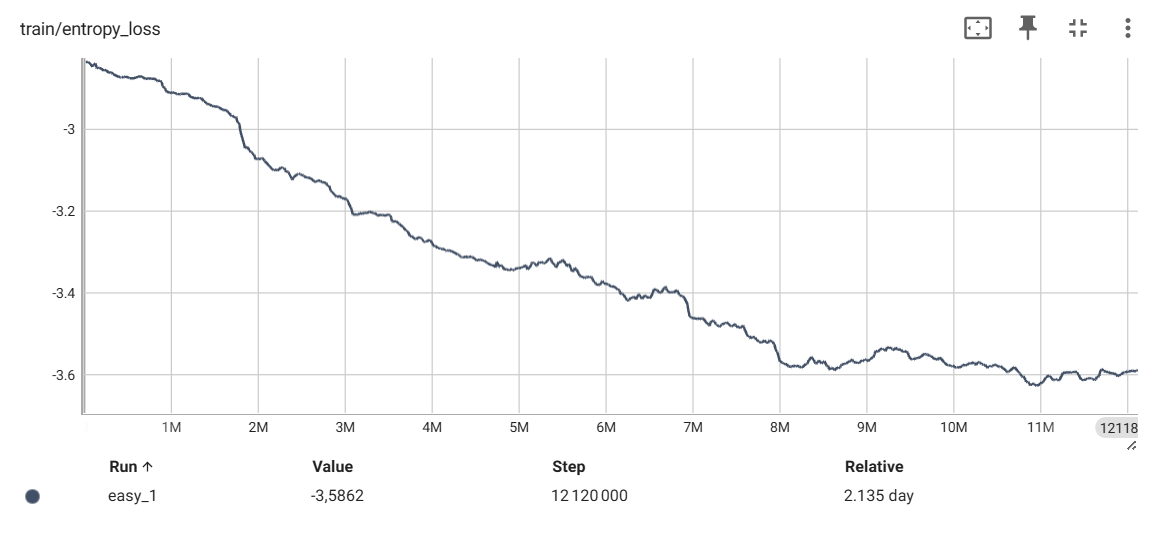
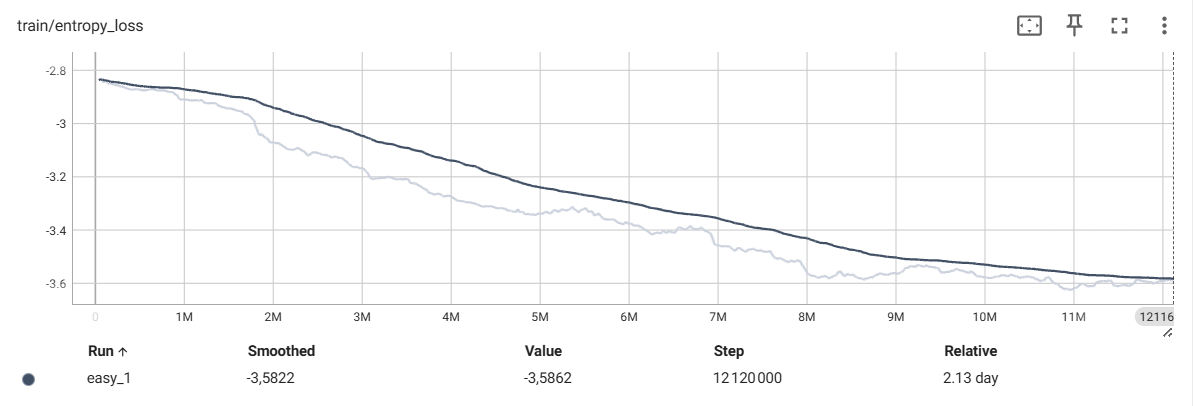
feat: Documenting medium level training

diff --git a/train_medium.py b/train_medium.py
@@ -130,7 +130,7 @@ if __name__ == "__main__":
     )
 
     model.learn(
-        total_timesteps=200_000_000,
+        total_timesteps=25_000_000,
         reset_num_timesteps=False,
         tb_log_name="medium",
         callback=CallbackList(callbacks)

diff --git a/train_easy.py b/train_easy.py
@@ -168,7 +168,7 @@ if __name__ == "__main__":
     )
 
     model.learn(
-        total_timesteps=20_000_000,
+        total_timesteps=12_000_000,
         tb_log_name="easy",
         callback=CallbackList(callbacks)
     )

diff --git a/README.md b/README.md
@@ -196,7 +196,7 @@ Even with all of this, v2's final model showed a real limitation on hard difficu
 - **Pinned `numpy` to `2.4.1` instead of `2.4.0`**: `2.4.0` was yanked from PyPI shortly after release over a backward-compatibility bug (a typo in `SeedlessSequence` breaking wheels built against `numpy < 2.4.0` via the `random` Cython API), which pip surfaces as an install-time warning. `2.4.1` is the immediate patch release that fixes exactly that bug and nothing else.
 - **Retuned `n_steps`/`batch_size`/`n_epochs` per curriculum stage** to address an LSTM hidden-state staleness issue found by inspecting `sb3-contrib`'s source (see "Final analysis" below for the full mechanism): `batch_size` raised from 200 to 2,000 — roughly 2.5x the 800-step maximum episode length — so a whole episode fits inside a single minibatch far more often instead of getting sliced mid-sequence, and `n_epochs` brought down (10/15/20 → 8/8/10) to further limit how many gradient steps reuse a captured, increasingly-outdated hidden state before the next rollout refreshes it.
 - **Added an entropy bonus and tightened the trust region**: `ent_coef` raised from its 0.0 default to `0.01`, and `clip_range` lowered from 0.2 to `0.1`, after a longer easy training run showed entropy collapsing continuously from step 0 (nothing was opposing it) alongside a late-training blow-up in `policy_gradient_loss` and `value_loss` — a well-documented general PPO instability mode, independent of the LSTM-specific staleness issue above.
-- **Switched `learning_rate` from a flat per-stage value to a `LinearSchedule`** that decays over each stage's own training budget instead of staying constant for the full 20M/200M/400M steps of a stage — chosen over an unconditionally lower flat rate since the first several million steps of training were working fine at the original rate.
+- **Switched `learning_rate` from a flat per-stage value to a `LinearSchedule`** that decays over each stage's own training budget instead of staying constant for the full training steps of a stage — chosen over an unconditionally lower flat rate since the first several million steps of training were working fine at the original rate.
 - **Increased checkpoint retention**: `KeepLastTwoCheckpoints` renamed to `KeepLastNCheckpoints` with a configurable `keep_last_n` (now 10, up from a hardcoded 2), giving much more room to go back and recover a pre-regression checkpoint if a run degrades late, instead of being stuck with only the most recent two.
 
 ## Training Hyperparameters
@@ -212,7 +212,7 @@ The table below reflects the `RecurrentPPO` configuration set in `train_easy.py`
 | `learning_rate` | `LinearSchedule(3e-4 → 5e-5)` | `LinearSchedule(5e-5 → 1e-5)` | `LinearSchedule(1e-5 → 2e-6)` |
 | `ent_coef` | 0.01 | 0.01 (inherited) | 0.01 (inherited) |
 | `clip_range` | 0.1 | 0.1 (inherited) | 0.1 (inherited) |
-| `total_timesteps` | 20,000,000 | 200,000,000 | 400,000,000 |
+| `total_timesteps` | 12,000,000 | 25,000,000 | 400,000,000 |
 | `device` | `cpu` | `cpu` | `cpu` |
 | `lstm_hidden_size` | 256 (default) | 256 (inherited) | 256 (inherited) |
 | `n_lstm_layers` | 1 (default) | 1 (inherited) | 1 (inherited) |
@@ -245,7 +245,7 @@ What we can also notice that with the presence of the entropy bonus, the entropy
   <tr>
     <td align="center">
       <img src="public/easy/pool_increase.png" width="800" alt="pool increase"><br>
-      <u><em>The easy seeds' pool increase during training (in %)</em></u>
+      <u><em>The easy seeds pool's size evolution during training (in %)</em></u>
     </td>
   </tr>
   <tr><td></td></tr>
@@ -381,13 +381,7 @@ I also tested on medium and hard level seeds to make sure the presence of memory
 
 ### Medium mode training
 
-Coming soon !
-<!-- I trained the easy model for another **200,000,000 timesteps** (~5 days) but this time on medium level seeds. Medium worlds require the agent to navigate around 1 to 2 significant obstacles — it must learn when to turn and how to recover its heading after a detour.
-
-<p align="center">
-  <img src="public/medium/reward_mean.png" width="800" alt="the reward mean during learning"><br>
-  <u><em>Evolution of reward during learning episodes</em></u>
-</p>
+Next, I trained the model on medium level seeds, starting from the easy level model as a baseline. Medium worlds require the agent to navigate around 1 to 2 significant obstacles — it must learn when to turn and how to recover its heading after a detour. I previously planned to train it for another **200,000,000 timesteps**, but after **19,000,000 timesteps** (~3.8 days) the agent had already achieved a hight success rate and had seen all the seeds in the pool. So I stopped the training. Here are the training metrics.
 
 <table align="center">
   <tr>
@@ -396,21 +390,36 @@ Coming soon !
       <u><em>Evolution of success rate during learning episodes</em></u>
     </td>
   </tr>
+  <tr><td></td></tr>
+  <tr>
+    <td align="center">
+      <img src="public/medium/pool_increase_easy.png" width="800" alt="pool increase"><br>
+      <u><em>The easy seeds pool's size evolution during training (in %)</em></u>
+    </td>
+    <td align="center">
+      <img src="public/medium/pool_increase_medium.png" width="800" alt="pool increase"><br>
+      <u><em>The medium seeds pool's size evolution during training (in %)</em></u>
+    </td>
+  </tr>
+  <tr><td></td></tr>
   <tr>
     <td align="center">
       <img src="public/medium/explained_variance.png" width="800" alt="explained variance during learning"><br>
-      <u><em>Evolution of explained variance during learning — stays consistently above 0.92, indicating the value function learned well</em></u>
+      <u><em>Evolution of explained variance during learning</em></u>
     </td>
   </tr>
+  <tr><td></td></tr>
   <tr>
     <td align="center">
       <img src="public/medium/entropy_loss.png" width="800" alt="entropy loss during learning"><br>
-      <u><em>Evolution of entropy — rises as the pool of seeds expands and the agent explores more diverse strategies</em></u>
+      <u><em>Evolution of entropy</em></u>
     </td>
   </tr>
 </table>
 
 <br />
+
+And here are the evaluation results :
 
 <table align="center">
   <tr>
@@ -462,7 +471,7 @@ Coming soon !
 </table>
 
 
-This time I tested **Middle schooler Billy** on easy and hard tests sets too. We can clearly see more precision on the easy mode and even a somewhat satisfying performance on hard levels. But it still needs some improvements for the hard level. And that's what we are doing next.
+I also tested **Middle schooler Billy :)** on easy and hard tests sets too. We can clearly see more precision on the easy mode and even a somewhat satisfying performance on hard levels. But it still needs some improvements for the hard level. And that's what we are doing next.
 
 **Test of the model trained for medium mode on easy mode worlds**
 
@@ -521,7 +530,7 @@ This time I tested **Middle schooler Billy** on easy and hard tests sets too. We
 </table>
 
 <br />
-<br /> -->
+<br />
 
 ### Hard mode training
 
@@ -676,7 +685,13 @@ Two distinct, compounding mechanisms might explain the decline:
 
 **2. Entropy collapse.** With `ent_coef=0.0` (the untouched default before this fix), nothing opposed the policy's action distribution becoming steadily more deterministic (lower standard deviation) as training progressed. `train/entropy_loss` — which SB3 logs as *negative* entropy, not entropy itself — rose steadily from about -2.8 to +3.7 over the run, meaning the actual entropy fell continuously from the very first step and never plateaued. A near-deterministic Gaussian policy makes PPO's probability ratios hypersensitive to small weight updates: a small shift in the mean action can swing the log-probability sharply when the standard deviation is already tiny. Combined to the now added LSTM architecture than not only updates the actions but also the hidden states, it could be a problem. `ent_coef=0.01` and a tighter `clip_range` (0.2 → 0.1) were added to counter this, along with switching `learning_rate` from a flat value to a `LinearSchedule` that decays over each stage's own training budget — the first several million steps of the run were working fine at the original flat rate, so the fix only tapers the rate down over time rather than starting low and slowing down learning that wasn't broken.
 
-After re-running the easy level training with these hyperparameters changes, the issue was fixed. The next steps are to train the medium level model and finally the hard level model to see if the `RecurrentPPO` configuration really helps overcoming what `PPO` alone couldn't.
+After re-running the easy level training with these hyperparameters changes, the issue was fixed. 
+
+I then went on to train on medium level seeds. Like mentionned earlier, I had planned a **200,000,000 timesteps** budget (what `PPO` needed to perform well). But to my surprise, after only **19,000,000 timesteps** (merely 10 % of the initially assigned budget), I noticed the agent already had a high success rate on the episodes. As the medium seeds pool was already completely covered, I decided to stop the training. I find it amazing ! "Just" adding the capacity to memorize past episodes and also extending the lidar's reach allowed the model to learn useful behavior in a really short time (compared to what could have been). 
+
+Things became even more interesting when I visualized its performance on hard level seeds. Those seeds need it to make turns around large walls, often **requiring it to turn its back on the learning signal for a non-negligeable amount of time**. And, where `PPO` agents and the `RecurrentPPO` easy level agent could only **charge headfirst into the crevice and stay stucked**, the new trained model **is able to turns its back on the signal for a good amount of time before being pulled back in**. And even after it starts being pulled back toward the signal, we can notice some kind of **"hesitation"** in its way of acting. 
+
+That's really encouraging. And so my hope is that given more time to experiment with hard level worlds, the model will be able to break its limitations. So the next step is the hard level training to see if the `RecurrentPPO` configuration really helps the agent overcome what `PPO` alone couldn't.
 
 
 ## Installation
@@ -684,8 +699,8 @@ After re-running the easy level training with these hyperparameters changes, the
 ```bash
 git clone https://github.com/Josh012006/NanoGoal-RL.git
 cd NanoGoal-RL
-python3 -m venv venv
-source venv/bin/activate
+python3 -m venv .venv
+source .venv/bin/activate
 pip install -r requirements.txt
 ```
 
